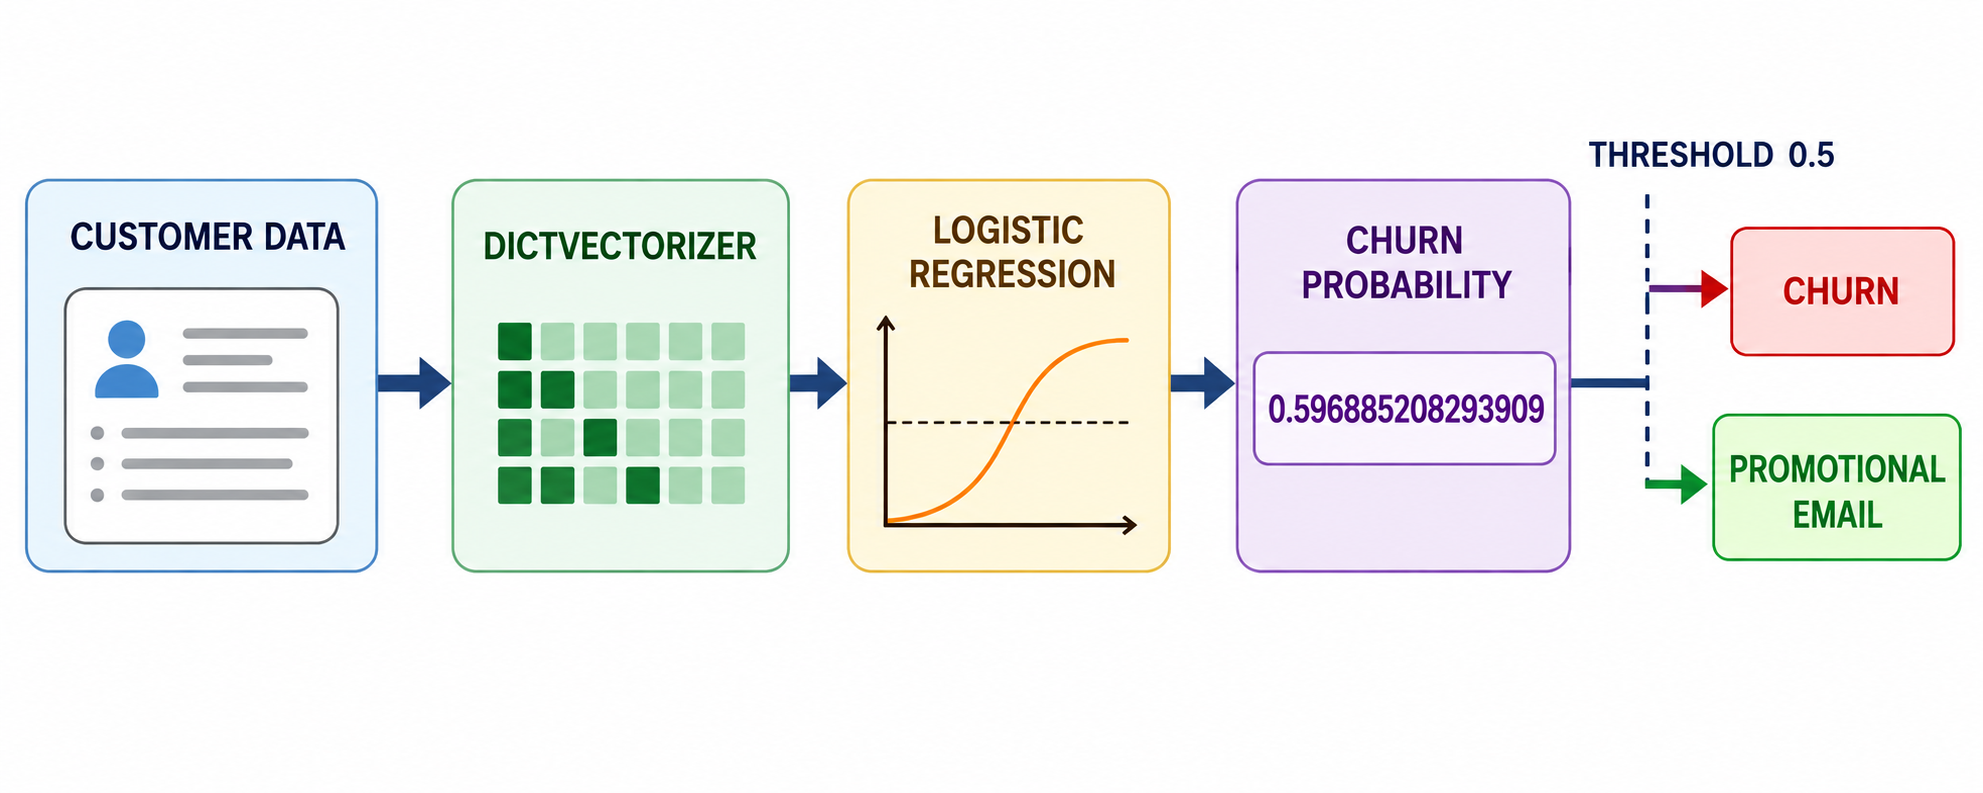
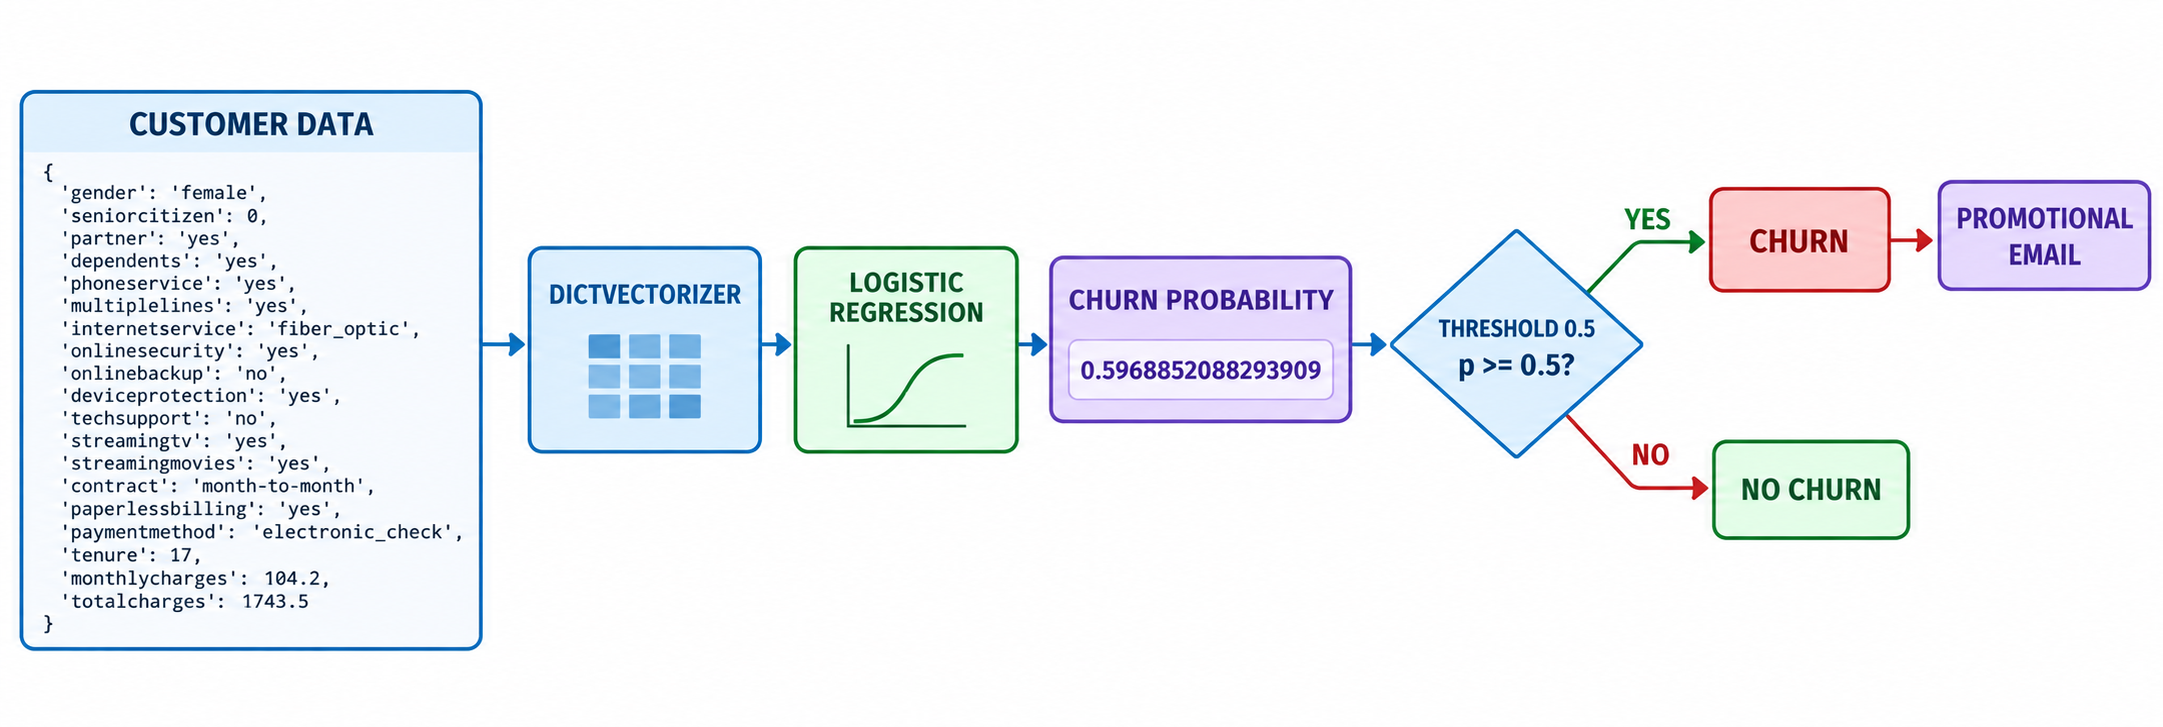
Regenerate classification production and exploration visuals

Changed region(s): [[0.0, 0.121, 1.0, 0.8473], [0.0, 0.8473, 0.2153, 0.9078], [0.7998, 0.1816, 0.9228, 0.2118]]

diff --git a/cohorts/2026/03-classification/images/imagegen-provenance-2026-09-08.md b/cohorts/2026/03-classification/images/imagegen-provenance-2026-09-08.md
@@ -78,3 +78,52 @@ and an incorrect chart scale.
   deterministic SVG with ImageMagick `convert`.
 - The final PNG was checked at native `1400x820` and simulated `608x356`
   lesson size; no screenshot overlays or camera artifacts are present.
+
+## Focused correction: 2026-09-09
+
+Two classification illustrations were regenerated after an independent audit
+found an incorrect probability and unsupported invented content. The original
+published PNGs were not used as imagegen inputs.
+
+### `12-using-log-reg-04-production-diagram-imagegen.png`
+
+- Imagegen inputs were the retained original JPG
+  `12-using-log-reg-04-production-diagram.jpg` and the bounded crop
+  `12-using-log-reg-04-production-diagram-imagegen-crop.jpg`.
+- The crop geometry is `(10, 35, 480, 285)` from the `598x360` original.
+- Imagegen output: `exec-dd4d8a99-c139-4a78-9d60-92d580dfba99`.
+- The probability is now exactly `0.5968852088293909`; the prior published
+  image incorrectly displayed `0.596885208293909`.
+- The threshold flow is explicit: `p >= 0.5?` → `CHURN` →
+  `PROMOTIONAL EMAIL`; the negative branch is `NO CHURN`.
+- Source SHA-256:
[1 lines of base64/hex data omitted]
+- Crop SHA-256:
[1 lines of base64/hex data omitted]
+- Final SHA-256:
[1 lines of base64/hex data omitted]
+- Native output is `2163x727`; the output contains C2PA metadata identifying
+  OpenAI image generation. It was inspected natively and at a simulated
+  `608px` lesson width.
+
+### `14-explore-more-01-preprocessing-model-comparison-imagegen.png`
+
+- No original JPG or bounded crop exists for this illustration: it was added
+  as a standalone generated asset in `e1337ff`.
+- It was regenerated from the exact lesson concepts, without using the prior
+  invented illustration as an imagegen input.
+- Imagegen output:
+  `exec-e1caf79f-87a8-4c14-a41e-02d51f3b1adc`.
+- The replacement contains only lesson-grounded concepts: excluding least
+  useful features; a scikit-learn train/validation/test split; OneHotEncoding;
+  StandardScaler for `lbfgs`; LinearRegression; RidgeRegression; finding the
+  best regularization parameter; and comparison on validation data.
+- It intentionally contains no invented dataset rows, model leaderboard,
+  validation scores, or unsupported model names.
+- Previous final SHA-256:
[1 lines of base64/hex data omitted]
+- Final SHA-256:
[1 lines of base64/hex data omitted]
+- Native output is `1536x1024`; the output contains C2PA metadata identifying
+  OpenAI image generation. It was inspected natively and at a simulated
+  `608px` lesson width.
